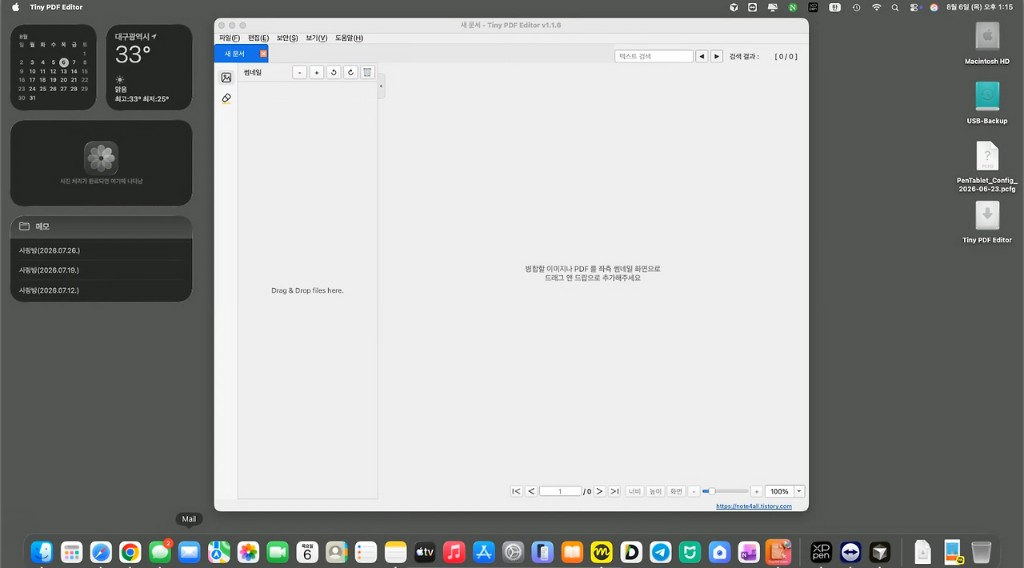
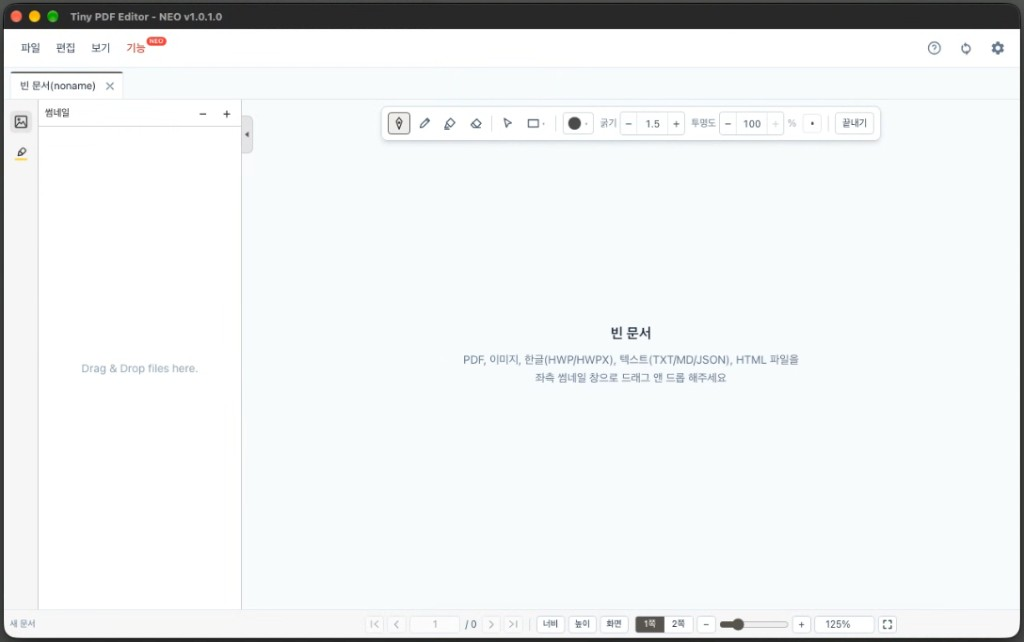
release: v1.0.1.1 - 정보 스플래시 복구, README 실행 화면
정보(?) 단추가 window.frame 브리지를 다시 쓰도록 고쳐 스플래시를 열고, README에 Windows·macOS 실행 화면을 넣는다.

diff --git a/neo-app/shared/constants.js b/neo-app/shared/constants.js
@@ -27,7 +27,7 @@ export const APP_FILE_NAME = 'TinyPDFEditor-NEO';
  *
  * 끝자리 N(0–9)은 `npm run version:bump` 가 올린다 (`1.0.0.9` → `1.0.1.0`). 직접 고치지 않는다.
  */
-export const APP_VERSION = '1.0.1.0';
+export const APP_VERSION = '1.0.1.1';
 
 /**
  * Git 태그 문자열. `1.0.0.1` → `v1.0.0-1`
@@ -49,7 +49,7 @@ export const APP_GIT_TAG = formatAppGitTag(APP_VERSION);
  * Package build id (YYMMDD_HHMMSS). Rewritten by `npm run build:release*`
  * (scripts/sync-build-stamp.mjs); matches the suffix of the produced files.
  */
-export const APP_BUILD_STAMP = '261118_232709';
+export const APP_BUILD_STAMP = '261119_081837';
 
 /**
  * Default web server port (Electron window + LAN browsers share it).

diff --git a/neo-app/src/lib/apiClient.js b/neo-app/src/lib/apiClient.js
@@ -109,7 +109,7 @@ export async function apiDownload(name, body = {}, options = {}) {
   return response.blob();
 }
 
-/** @returns {import('../../electron/preload.cjs') | null} */
+/** Native bridge exposed by preload.cjs as `window.frame`; undefined in a plain browser. */
 export function getNative() {
-  return window.tinyNative ?? null;
+  return typeof window !== 'undefined' ? window.frame ?? null : null;
 }

diff --git a/README.md b/README.md
@@ -4,6 +4,16 @@
 
 Neo는 Tiny PDF Editor의 새로운 프론트엔드입니다. 메뉴, 썸네일, 본문, 대화상자를 Electron(데스크톱) + React 19 + Tailwind CSS 4로 새로 디자인했으며, PDF 편집 엔진은 Python 기반 `pdf_editor/engine.py`를 자식 프로세스로 사용합니다.
 
+## 실행 화면
+
+### Windows
+
+![Tiny PDF Editor - NEO Windows 실행 화면](assets/screenshot-windows.png)
+
+### macOS
+
+![Tiny PDF Editor - NEO macOS 실행 화면](assets/screenshot-macos.png)
+
 ## 기술 스택
 
 - **프론트엔드**: Electron, React 19, Tailwind CSS 4
